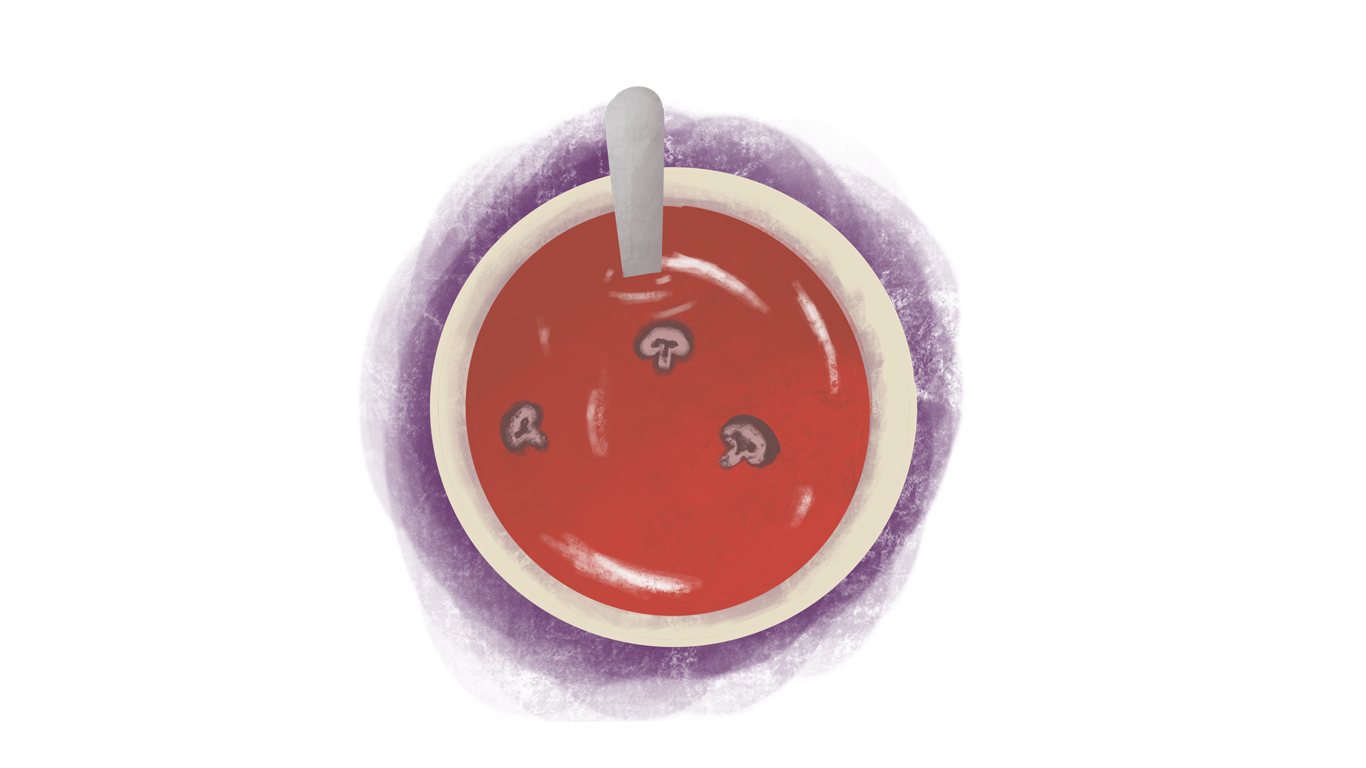
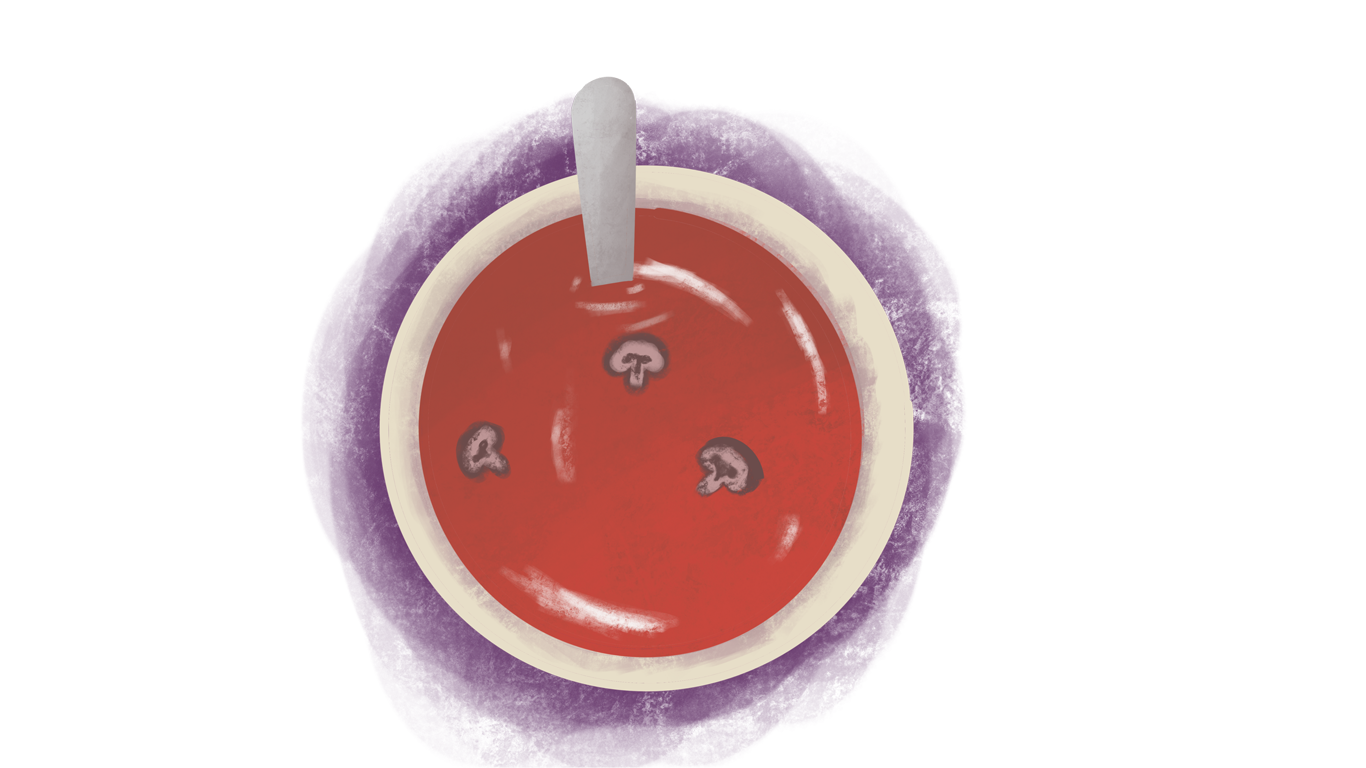
added illustrations

Changed region(s): [[0.2152, 0.0938, 0.7072, 1.0], [0.4919, 0.5312, 0.5842, 0.6562]]

diff --git a/css/styles.css b/css/styles.css
@@ -20,14 +20,19 @@ body
 {
     padding: 0;
     margin: 0;
-    font-family: 'Darker Grotesque', sans-serif;
     font-weight: 700;
     font-size: 16px;
-    color: #736F5F;
-    background-color: #FFEFE4;
+    background-color: #EADCFF;
 }
 h1, h2{
     font-family: 'Shadows Into Light', cursive;
+
+}
+h1{
+    font-size: 80px;
+    float: left;
+    
+
 }
 
 h1,
@@ -60,10 +65,11 @@ pre
     background: #646464;
 }
 
-img{
-    height: 20px;
-    width: 20px;
+.soup-bowl{
+    rotate: 30deg;
+    padding-top: -30px;
 }
+
 
 .header
 {
@@ -114,9 +120,10 @@ img{
 .intro
 {
     position: absolute;
-    left: 500px;
+    left: 100px;
     top: 0px;
     padding-right: 50px;
+    color: #3E400B;
    
 }
 
@@ -132,7 +139,8 @@ img{
 
 .description
 {
-    left: 1500px;
+    left: 1300px;
+    max-width: 200px;
 }
 
 .documentation

diff --git a/index.html b/index.html
@@ -33,7 +33,11 @@
   </div>
 
   <div class="front scroll">
+    
     <h1 class="intro">Learn How to Make Tom Kah Soup!</h1>
+    <div class="soup-bowl">
+      <img src="images/bowl-of-soup.png">
+    </div>
 
     <div class="description page">
       <h2>Lets Prep!</h2>
